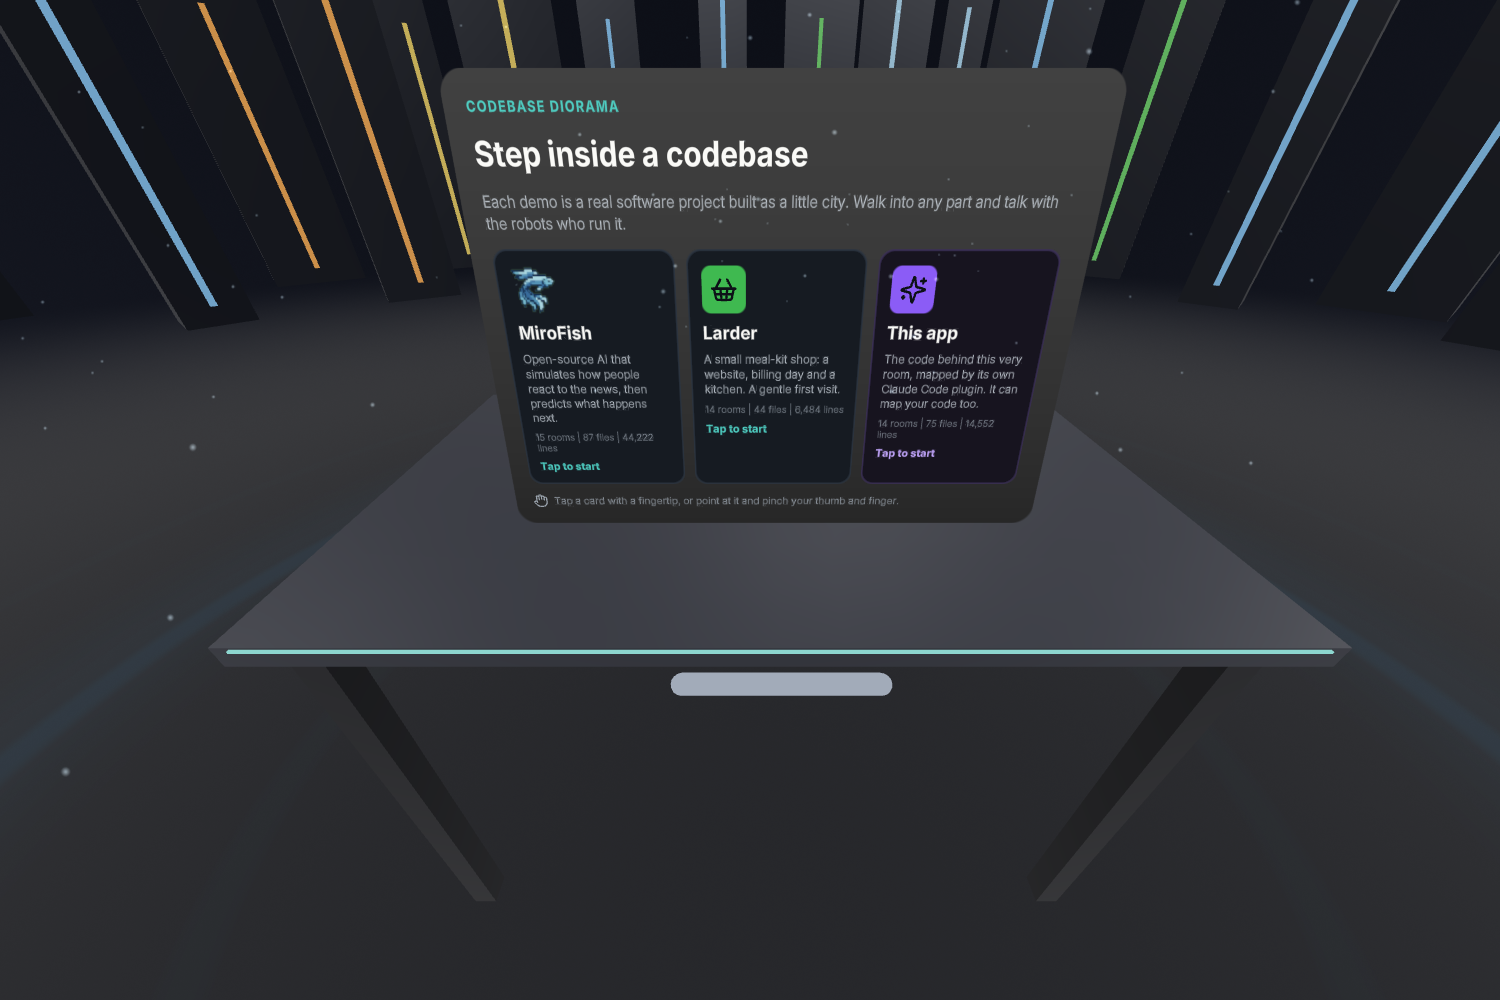
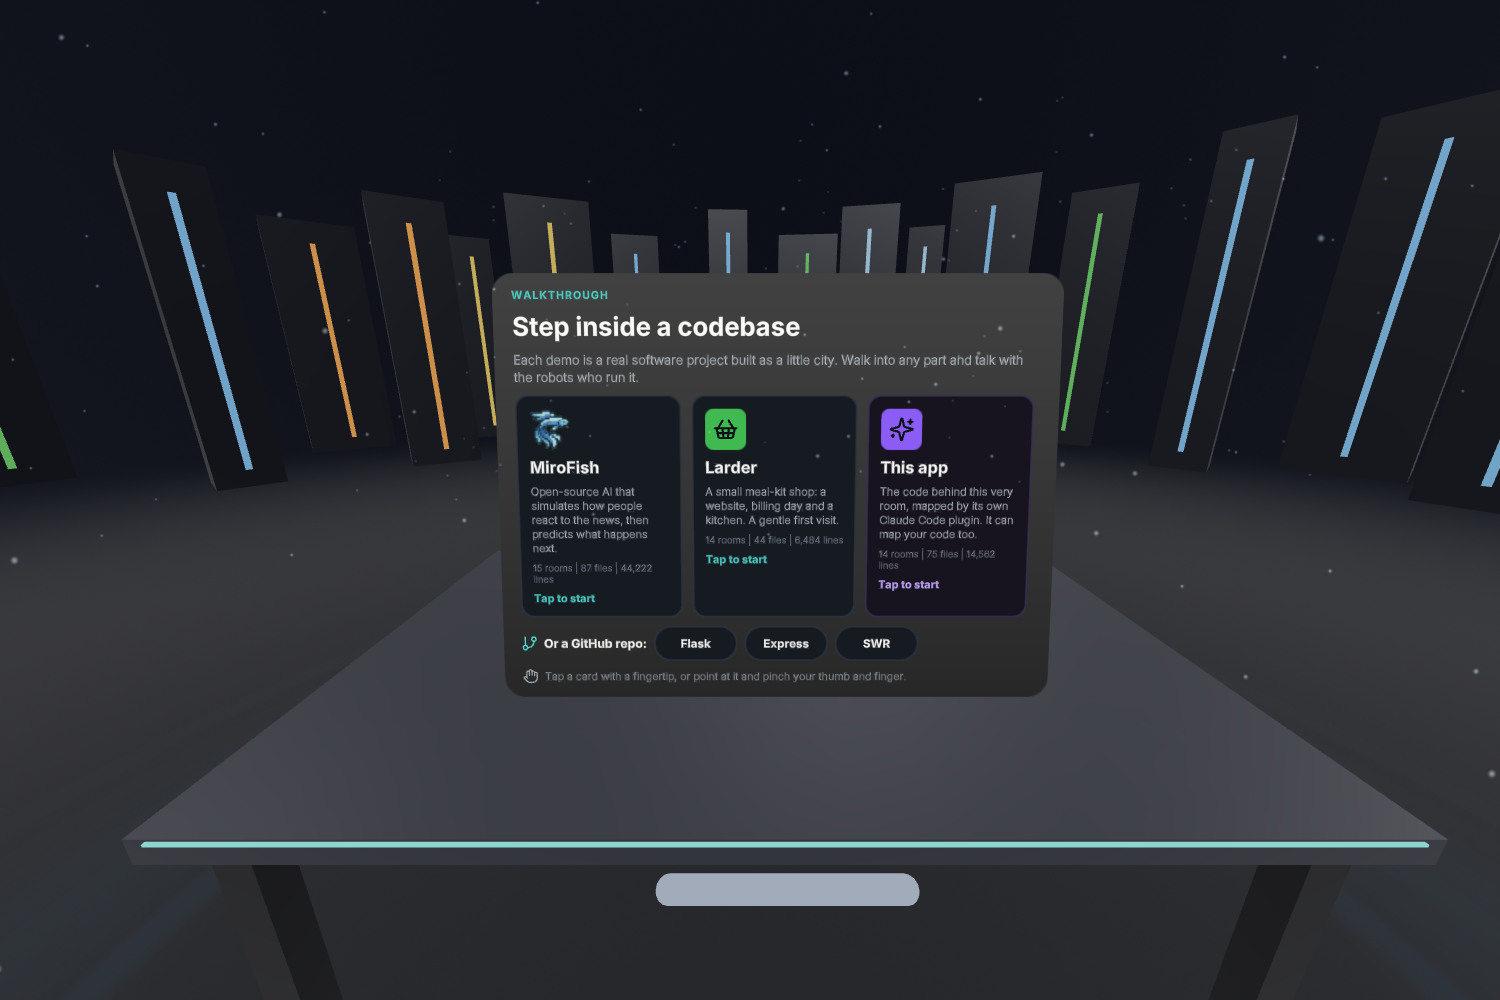
Start menu fits above the desk again; submission images show Walkthrough
The GitHub row added this afternoon made the menu taller than the space
above the desk, so its bottom hint line sank into the desk top. The row is
now one line (label and chips together), the panel's spacing is a little
tighter, and what is happening while a repository builds is said on the
hint line instead of a line of its own. Checked seated with bare hands in
VR and in the flat view: the whole panel, hint line included, clears the
desk, and the SWR and Express chips still open their cities.

The three submission images that showed the old name (the menu in both
sets, and the map of this app) are recaptured from the emulator.

diff --git a/src/menu.ts b/src/menu.ts
@@ -12,6 +12,9 @@ import { app, chooseDemo, onChange } from './state.js';
  */
 export class MenuSystem extends createSystem({}) {
   private shown: boolean | null = null;
+  /** The line under the cards when nothing is being built: how to choose, for hands or for eyes. */
+  private hintIdle = 'Tap a card with a fingertip, or point at it and pinch your thumb and finger.';
+  private hint: UIKit.Text | undefined;
 
   init(): void {
     const panel = this.world.getSceneObject<UIKitMLAsset>('menu-panel');
@@ -49,19 +52,19 @@ export class MenuSystem extends createSystem({}) {
           ?.setProperties({ text: `${parts} rooms | ${graph.files.length} files | ${lines.toLocaleString('en-US')} lines` });
       }
     }
-    if (panel) this.wireRepoChips(panel);
     // Meta VR Glasses are aimed with the eyes (gaze), not a pointing hand.
     const hint = panel?.getElementById<UIKit.Text>('menu-hint');
+    this.hint = hint ?? undefined;
+    if (panel) this.wireRepoChips(panel);
     if (hint) {
       this.cleanupFuncs.push(
         this.world.visibilityState.subscribe((state) => {
           if (state === VisibilityState.NonImmersive) return;
           const gaze = this.world.session?.enabledFeatures?.includes('gaze-tracking') ?? false;
-          hint.setProperties({
-            text: gaze
-              ? 'Look at a card, then tap your thumb and finger together.'
-              : 'Tap a card with a fingertip, or point at it and pinch your thumb and finger.',
-          });
+          this.hintIdle = gaze
+            ? 'Look at a card, then tap your thumb and finger together.'
+            : 'Tap a card with a fingertip, or point at it and pinch your thumb and finger.';
+          hint.setProperties({ text: this.hintIdle });
         }),
       );
     }
@@ -77,21 +80,21 @@ export class MenuSystem extends createSystem({}) {
    */
   private wireRepoChips(panel: UIKitMLAsset): void {
     if (!HACKATHON) return;
-    const status = panel.getElementById<UIKit.Text>('repo-status');
-    const say = (text: string) => status?.setProperties({ text });
+    // What is happening is said on the hint line under the cards (the panel has no room for another).
+    const say = (text: string | null) => this.hint?.setProperties({ text: text ?? this.hintIdle });
     let busy = false;
     const open = async (repo: string, label: string) => {
       if (busy) return;
       busy = true;
       click();
-      say(`Building ${label}: downloading the code and drawing the city, about 10 seconds...`);
+      say(`Building ${label}: downloading the code and drawing its city, about 10 seconds...`);
       const result = await buildRepoCity(repo);
       busy = false;
       if ('error' in result) {
-        say(`${label}: ${result.error}.`);
+        say(`${label}: ${result.error}. Tap it again, or pick a card.`);
         return;
       }
-      say('Tap one to build its city (about 10 seconds). To use your own, type it on the page before entering VR.');
+      say(null);
       this.refreshLast(panel);
       chooseDemo(result.id);
     };
@@ -126,12 +129,14 @@ export class MenuSystem extends createSystem({}) {
   private refreshLast(panel: UIKitMLAsset): void {
     const saved = lastRepoMap();
     panel.getElementById('repo-last')?.setProperties({ display: saved ? 'flex' : 'none' });
-    if (saved) panel.getElementById<UIKit.Text>('repo-last-name')?.setProperties({ text: saved.name.slice(0, 14) });
+    if (saved) panel.getElementById<UIKit.Text>('repo-last-name')?.setProperties({ text: saved.name.slice(0, 11) });
   }
 
   private apply(): void {
     if (app.menu === this.shown) return;
     this.shown = app.menu;
+    // Coming back to the menu: the hint line says how to choose again, not an old message.
+    if (app.menu) this.hint?.setProperties({ text: this.hintIdle });
     setPanelShown(this.world, 'menu-panel', app.menu);
   }
 }
